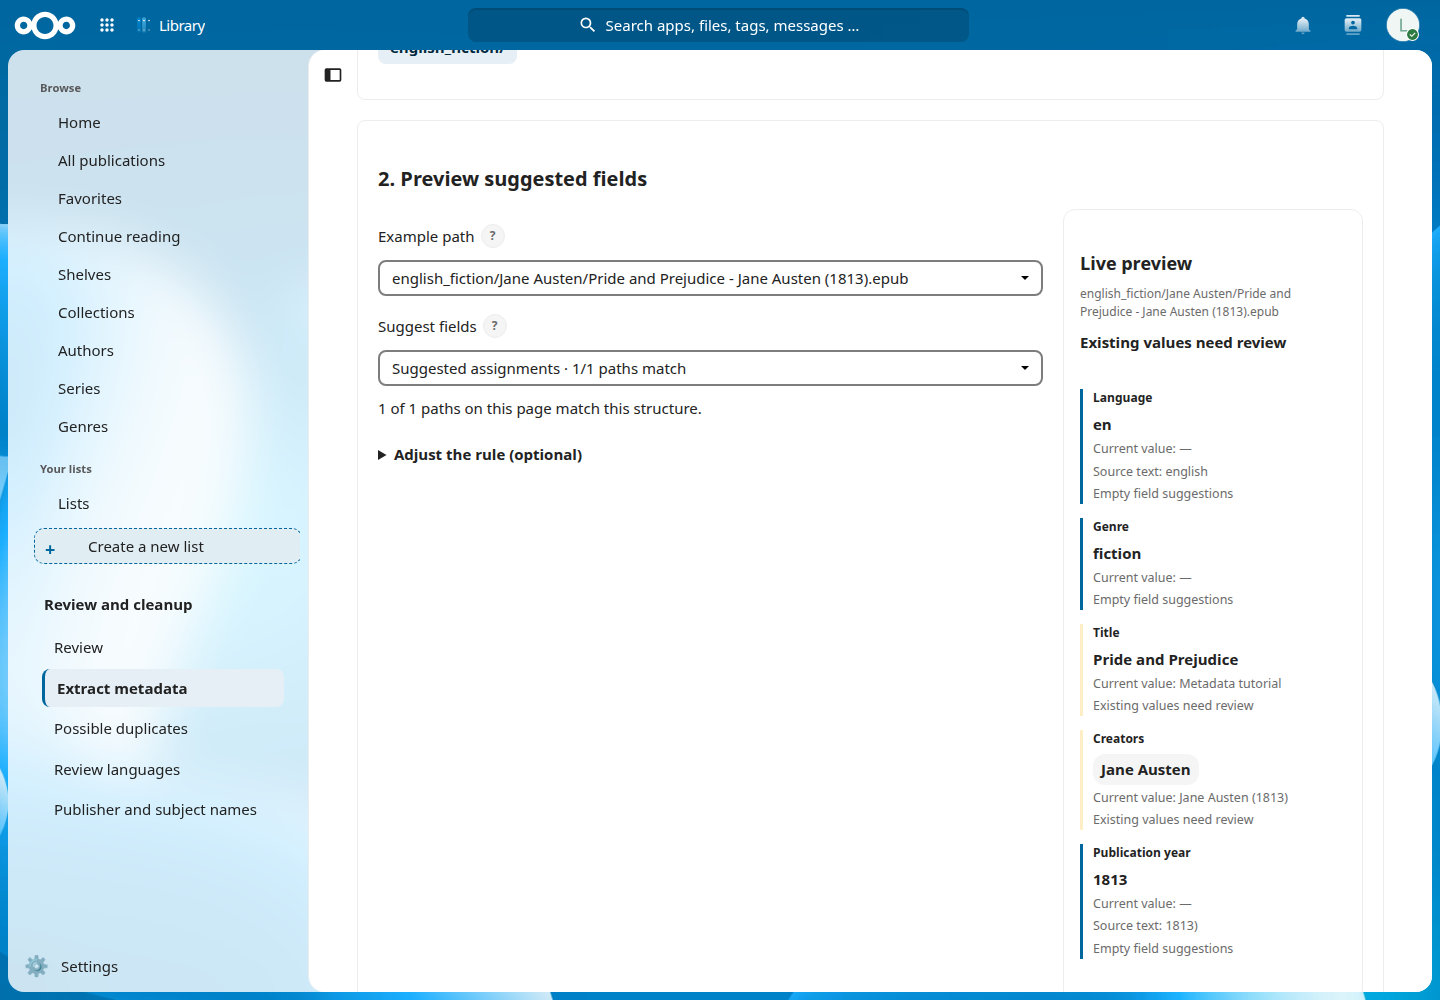
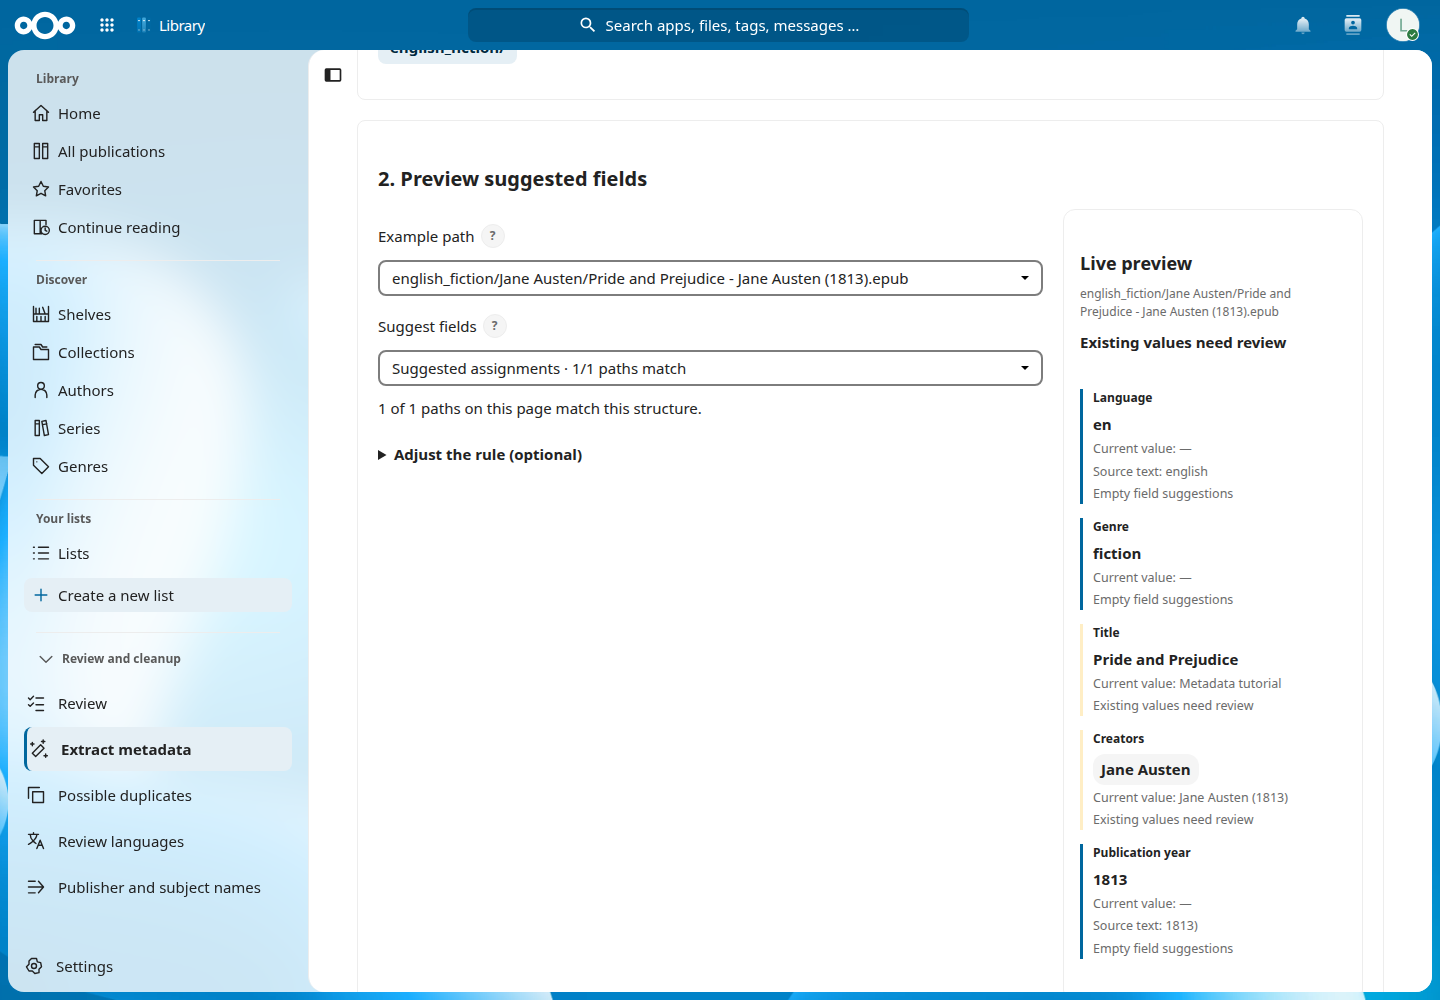
Capture the polished sidebar in current public screenshots

diff --git a/docs/images/first-library/README.md b/docs/images/first-library/README.md
@@ -1,6 +1,6 @@
-# Public screenshots — alpha.34
+# Public screenshots — alpha.35
 
-Captured on 2026-10-20 using the existing signed Library **0.3.0-alpha.34** archive on an isolated **Nextcloud 34.0.4** instance, Chromium, English UI, light theme and a **1440 × 1000** viewport. Settings images crop the relevant section; browsing images show the viewport. No image retouching was applied. The extraction capture uses a scroll offset to keep the preview below the Nextcloud header.
+Captured on 2026-10-20 using the signed screenshot candidate of Library **0.3.0-alpha.35** archive on an isolated **Nextcloud 34.0.4** instance, Chromium, English UI, light theme and a **1440 × 1000** viewport. Settings images crop the relevant section; browsing images show the viewport. No image retouching was applied. The extraction capture uses a scroll offset to keep the preview below the Nextcloud header.
 
 The source is the 40-book English Gutenberg EPUB fixture, copied into `/Books/Gutenberg English` for a disposable account. Book IDs and metadata titles are listed in [Gutenberg example books](../../gutenberg-example-books.md). The first scan added all 40 books with zero metadata errors. The daily schedule is demonstration data. The extraction screenshot additionally uses a synthetic EPUB named `Pride and Prejudice - Jane Austen (1813).epub`; it is a filename tutorial, not a complete copy of that book. The final disposable catalogue therefore contains 41 records.
 
@@ -29,7 +29,7 @@ From the repository root, provide the signed archive and a local copy of the Gut
 export NC_VERSION=34.0.4
 export LIBRARY_LISTS_PREFIX=library-public-capture
 export LIBRARY_LISTS_WORK_DIR=/tmp/library-public-capture
-export LIBRARY_TEST_ARCHIVE="$PWD/dist/library-0.3.0-alpha.34.tar.gz"
+export LIBRARY_TEST_ARCHIVE="$PWD/dist/library-0.3.0-alpha.35.tar.gz"
 GUTENBERG_ARCHIVE=/tmp/library-beta2/gutenberg-en-40.tar.gz
 unset LIBRARY_BOOK_FIXTURE_ARCHIVE LIBRARY_BETA_ARCHIVE
 bash scripts/dev-lists-instance.sh start
@@ -50,4 +50,4 @@ bash scripts/dev-lists-instance.sh stop
 
 Both scripts require the disposable-instance ownership label. The first script requires no existing Library roots, saves the shelf through the UI, queues its scan, invokes the worker, captures the completed result and saves a daily schedule. The second starts with the 40-book catalogue and creates its synthetic extraction fixture after capturing browsing screens. Use a fresh instance when repeating the complete sequence; these are first-use capture tools, not idempotent maintenance commands. If capture fails, stop the disposable instance after inspecting the error.
 
[2 lines of base64/hex data omitted]

diff --git a/docs/app-store-listing.md b/docs/app-store-listing.md
@@ -1,8 +1,8 @@
 # App Store listing draft
 
-Status: copy and screenshots refreshed against signed 0.3.0-alpha.34 on 2026-10-20; final candidate review remains required before submission.
+Status: copy and screenshots refreshed against signed 0.3.0-alpha.35 on 2026-10-20; final candidate review remains required before submission.
 Target app version: 0.3, subject to exact archive verification.
-Compatibility target: Nextcloud 33–35. Current NC34 verification is recorded for alpha.34; the final exact-package NC33–35 matrix remains a release gate.
+Compatibility target: Nextcloud 33–35. Current NC34 verification is recorded for alpha.35; the final exact-package NC33–35 matrix remains a release gate.
 
 ## Short description
 
@@ -63,7 +63,7 @@ Bug reports are most useful when they include the app version, Nextcloud version
 
 Prepared screenshots for owner review:
 
-Captured from signed Library 0.3.0-alpha.34 on disposable Nextcloud 34.0.4 using the public Gutenberg fixture and a synthetic metadata tutorial file. All are below 2 MiB, and contain no real-library filenames or credentials:
+Captured from signed Library 0.3.0-alpha.35 on disposable Nextcloud 34.0.4 using the public Gutenberg fixture and a synthetic metadata tutorial file. All are below 2 MiB, and contain no real-library filenames or credentials:
 
 1. [Catalogue](images/appstore-catalogue.png)
 2. [Publication details](images/appstore-details.png)

diff --git a/docs/testing-maintenance-audit-2026-10-20.md b/docs/testing-maintenance-audit-2026-10-20.md
@@ -78,3 +78,5 @@ Refreshed the public README, first-library walkthrough and App Store listing dra
 All ten images were visually inspected. The settings screenshots retain two observed presentation issues for human follow-up: the Add a shelf inputs truncate their example values despite spare row space, and the Changes found tile's long moved/renamed label overlaps its count at this width. The captures are not retouched to conceal either issue. Catalogue placeholders are intentional where the fixture has no cover. This is screenshot verification, not a new compatibility certification.
 
 Capture commands and provenance are in [the image record](images/first-library/README.md). Local logs: `/tmp/library-public-capture-first.log` and `/tmp/library-public-capture-store.log`. The developer instance and existing books were not modified. The App Store's historical screenshot URLs still need the final published release tag before submission.
+
+The subsequently requested sidebar update is tracked separately as alpha.35. Its [verification record](compatibility-evidence/2026-10-20-nc34-sidebar-alpha35/README.md) includes a second fresh-package screenshot capture, which supersedes the public alpha.34 images above. The original alpha.34 refresh remains in PR #129's commit history.

diff --git a/README.md b/README.md
@@ -40,7 +40,7 @@ The app has safe user-facing diagnostics for scan and metadata problems. Server 
 
 ![Filename metadata extraction with a selected-record preview](docs/images/appstore-inference.png)
 
-Screenshots show the actual alpha.34 interface on an isolated Nextcloud 34 instance, using the [English Gutenberg examples](docs/gutenberg-example-books.md) and a synthetic filename-extraction example. [Capture details and reproduction](docs/images/first-library/README.md).
+Screenshots show the actual alpha.35 interface on an isolated Nextcloud 34 instance, using the [English Gutenberg examples](docs/gutenberg-example-books.md) and a synthetic filename-extraction example. [Capture details and reproduction](docs/images/first-library/README.md).
 
 ## Your first library
 

diff --git a/docs/first-library.md b/docs/first-library.md
@@ -1,6 +1,6 @@
 # Your first library
 
-Turn a folder of English Project Gutenberg books into a catalogue you can search, browse and open. The instructions and screenshots use **0.3.0-alpha.34** on Nextcloud **34.0.4**, with 40 EPUB files. You can follow the steps with just a few books.
+Turn a folder of English Project Gutenberg books into a catalogue you can search, browse and open. The instructions and screenshots use **0.3.0-alpha.35** on Nextcloud **34.0.4**, with 40 EPUB files. You can follow the steps with just a few books.
 
 ## Before you start
 
